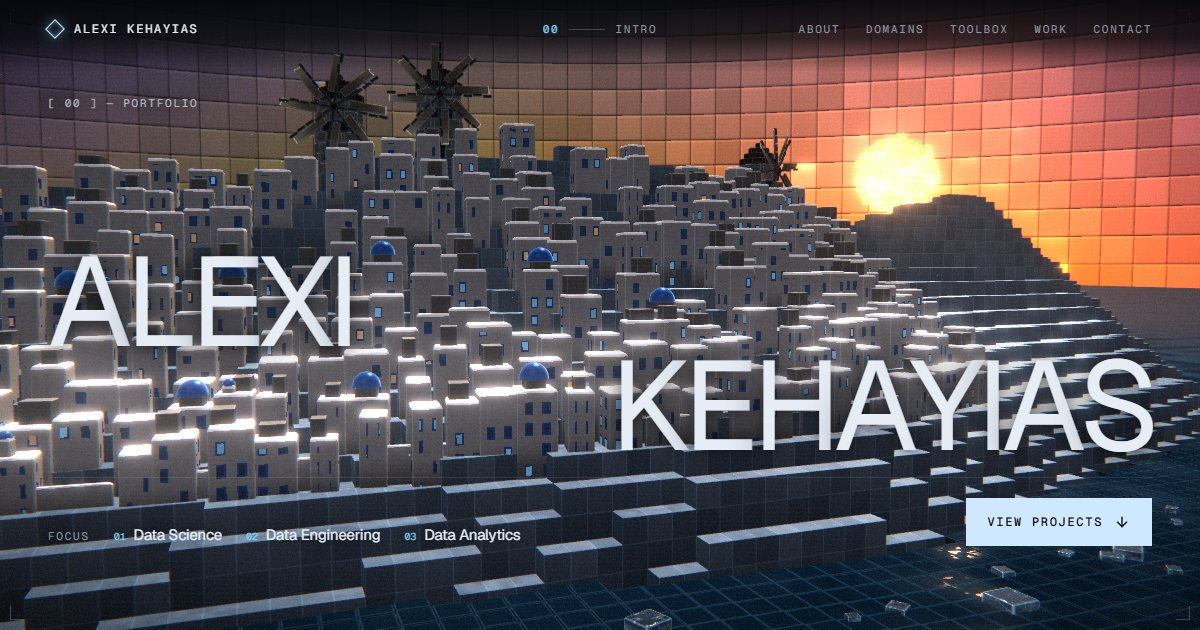
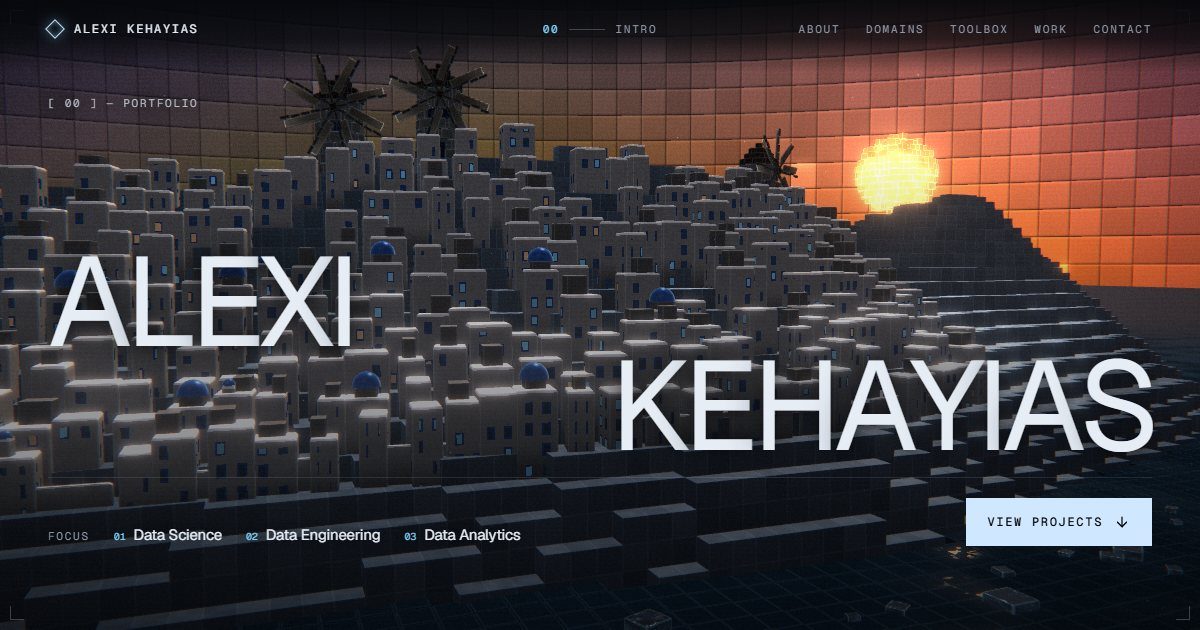
Updating background Scene

diff --git a/src/components/gl/shaders.ts b/src/components/gl/shaders.ts
@@ -755,6 +755,8 @@ export const skyFragment = /* glsl */ `
       col += star * seam * smoothstep(0.0, 0.25, d.y) * (0.55 + 0.45 * sin(uTime * 2.0 + s * 60.0)) * 0.9 * (1.0 - uDay);
     }
 
+    // The bright daytime sky sits behind the hero's labels and name: a little deeper by day
+    col *= 1.0 - 0.15 * uDay;
     gl_FragColor = vec4(col * uExposure, 1.0);
   }
 `;
@@ -856,7 +858,7 @@ export const lineFragment = /* glsl */ `
 `;
 
 /* ------------------------------------------------------------------ */
-/* Final composite: aberration, glitch, vignette, grain, scanlines     */
+/* Final composite: dimming, aberration, glitch, vignette, grain, scanlines */
 /* ------------------------------------------------------------------ */
 export const FinalShader = {
   uniforms: {
@@ -865,6 +867,8 @@ export const FinalShader = {
     uAberr: { value: 0.0015 },
     uGlitch: { value: 0 },
     uRes: { value: [1, 1] },
+    /** Overall brightness of the 3D backdrop (below 1 keeps the text on top readable; set per time of day) */
+    uDim: { value: 1 },
   },
   vertexShader: /* glsl */ `
     varying vec2 vUv;
@@ -879,6 +883,7 @@ export const FinalShader = {
     uniform float uAberr;
     uniform float uGlitch;
     uniform vec2 uRes;
+    uniform float uDim;
     varying vec2 vUv;
     float rnd(vec2 p) { return fract(sin(dot(p, vec2(12.9898, 78.233))) * 43758.5453); }
     void main() {
@@ -892,6 +897,7 @@ export const FinalShader = {
       col.r = texture2D(tDiffuse, uv + off).r;
       col.g = texture2D(tDiffuse, uv).g;
       col.b = texture2D(tDiffuse, uv - off).b;
+      col *= uDim;
       col *= 1.0 - smoothstep(0.12, 0.62, r2) * 0.55;
       col += (rnd(uv * uRes + fract(uTime) * 97.0) - 0.5) * 0.045;
       col += vec3(0.0, 0.01, 0.02) * sin(uv.y * uRes.y * 1.4) * 0.5;

diff --git a/src/test/scene.test.tsx b/src/test/scene.test.tsx
@@ -50,7 +50,7 @@ vi.mock("three/examples/jsm/postprocessing/UnrealBloomPass.js", () => ({
 vi.mock("three/examples/jsm/postprocessing/ShaderPass.js", () => ({
   ShaderPass: class {
     enabled = true;
-    uniforms = { uTime: { value: 0 }, uAberr: { value: 0 }, uGlitch: { value: 0 }, uRes: { value: [1, 1] } };
+    uniforms = { uTime: { value: 0 }, uAberr: { value: 0 }, uGlitch: { value: 0 }, uRes: { value: [1, 1] }, uDim: { value: 1 } };
   },
 }));
 
@@ -105,6 +105,9 @@ function display(refreshMs: number, cost: (s: Settings) => number) {
 }
 
 const setScreenDpr = (value: number) => Object.defineProperty(window, "devicePixelRatio", { configurable: true, value });
+
+/** The final pass's backdrop dimming (of the first scene mounted in the test) */
+const dim = () => (gl.passes.find((p) => "uniforms" in p) as unknown as { uniforms: { uDim: { value: number } } }).uniforms.uDim.value;
 
 const stops = [
   { y: 0, layout: "village" as const },
@@ -227,10 +230,13 @@ describe("IceScene", () => {
     const first = render(<IceScene />);
     advance(40);
     expect(document.documentElement.dataset.sky).toBe("day");
+    expect(dim()).toBeCloseTo(0.76, 2);
     // An evening later the next refresh (every 10 s) finds the sun down
     vi.setSystemTime(new Date("2026-06-21T21:30:00Z")); // 23:30 CEST
     advance(10_200);
     expect(document.documentElement.dataset.sky).toBe("night");
+    // …and the backdrop dims less at night (it is dark already) than by day
+    expect(dim()).toBeCloseTo(0.88, 2);
     first.unmount();
     expect(document.documentElement.dataset.sky).toBeUndefined();
 

diff --git a/src/index.css b/src/index.css
@@ -1017,6 +1017,15 @@ html.no-webgl body {
   -webkit-user-select: none;
   touch-action: pan-y;
 }
+/* A soft shade over the lower part of the scene, where the name and focus list sit right in
+   front of the white village; it fades out before the sky, sun and moon */
+.hero::before {
+  content: "";
+  position: absolute;
+  inset: 0;
+  pointer-events: none;
+  background: linear-gradient(to top, rgba(5, 7, 10, 0.62) 0%, rgba(5, 7, 10, 0.42) 34%, rgba(5, 7, 10, 0.16) 58%, rgba(5, 7, 10, 0) 76%);
+}
 .hero__inner {
   position: relative;
   display: flex;
@@ -1689,8 +1698,7 @@ html[data-sky="day"] .hero__top > .mono-label {
 .project-card:hover .project-card__tint {
   opacity: 0.45;
 }
-.project-card__idx,
-.project-card__flag {
+.project-card__idx {
   position: absolute;
   top: 12px;
   font-family: var(--font-mono);
@@ -1701,23 +1709,6 @@ html[data-sky="day"] .hero__top > .mono-label {
 .project-card__idx {
   left: 12px;
   color: var(--ice);
-}
-.project-card__flag {
-  right: 12px;
-  display: inline-flex;
-  align-items: center;
-  gap: 6px;
-  padding: 4px 8px;
-  color: var(--bg);
-  background: var(--accent);
-}
-.project-card__flag::before {
-  content: "";
-  width: 5px;
-  height: 5px;
-  border-radius: 50%;
-  background: var(--bg);
-  animation: blink 1.2s steps(1) infinite;
 }
 .project-card__body {
   position: relative;

diff --git a/src/components/ProjectCard.tsx b/src/components/ProjectCard.tsx
@@ -28,7 +28,7 @@ const pad = (n: number) => String(n).padStart(2, "0");
  */
 const ProjectCard = ({ project, category, index, order }: ProjectCardProps) => {
   const ref = useRef<HTMLElement>(null);
-  const { title, description, image, tags, tools, concepts, powerBiUrl } = project;
+  const { title, description, image, tags, tools, concepts } = project;
 
   const onMove = (e: PointerEvent<HTMLElement>) => {
     const el = ref.current;
@@ -63,7 +63,6 @@ const ProjectCard = ({ project, category, index, order }: ProjectCardProps) => {
           <DepthImage src={image} alt="" />
           <span className="project-card__tint" aria-hidden="true" />
           <span className="project-card__idx">P/{pad(index + 1)}</span>
-          {powerBiUrl ? <span className="project-card__flag">Live dashboard</span> : null}
         </div>
 
         <div className="project-card__body">

diff --git a/src/test/sections.test.tsx b/src/test/sections.test.tsx
@@ -158,7 +158,8 @@ describe("ProjectCard", () => {
     expect(link).toHaveAttribute("href", "#/project/dataAnalytics/0");
     const card = link.closest(".project-card") as HTMLElement;
     expect(card.tagName).toBe("ARTICLE");
-    expect(screen.getByText("Live dashboard")).toBeInTheDocument();
+    // No "Live dashboard" badge on the cards (the dashboards are on the project pages)
+    expect(screen.queryByText(/live dashboard/i)).toBeNull();
     vi.spyOn(card, "getBoundingClientRect").mockReturnValue({ left: 0, top: 0, width: 200, height: 100 } as DOMRect);
     fireEvent(card, new PointerEvent("pointermove", { pointerType: "mouse", clientX: 150, clientY: 25, bubbles: true }));
     expect(card.style.getPropertyValue("--ry")).toBe("2.25deg");

diff --git a/src/components/gl/IceScene.tsx b/src/components/gl/IceScene.tsx
@@ -551,6 +551,9 @@ export default function IceScene() {
       // Less bloom by day so the white houses don't wash out
       bloom.strength = q.bloomStrength * (1 - 0.5 * d);
       bloom.threshold = 0.72 + 0.2 * d;
+      // The whole backdrop a little darker so the text on top reads: more by day, when the
+      // sky and the white village are bright
+      finalPass.uniforms.uDim.value = 0.88 - 0.12 * d;
       // Lets the CSS give text over the bright daytime scene a stronger shadow
       document.documentElement.dataset.sky = d > 0.5 ? "day" : "night";
     };
